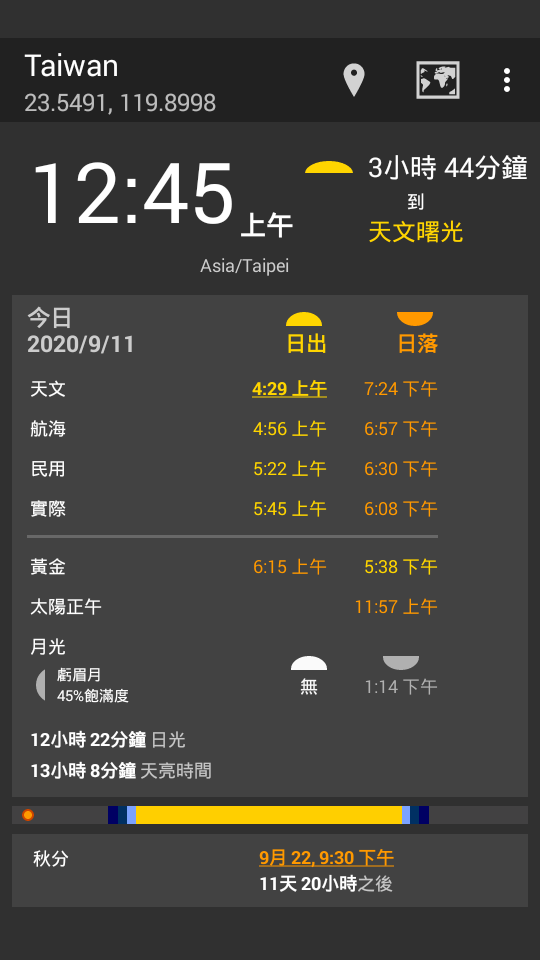
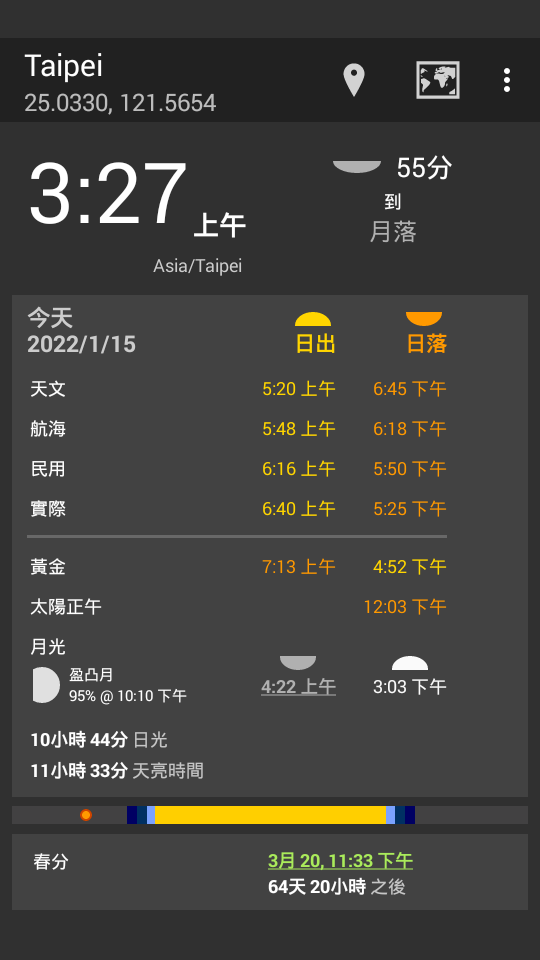
screenshots

diff --git a/app/src/androidTest/java/com/forrestguice/suntimeswidget/SuntimesActivityTestBase.java b/app/src/androidTest/java/com/forrestguice/suntimeswidget/SuntimesActivityTestBase.java
@@ -302,10 +302,10 @@ public abstract class SuntimesActivityTestBase
         config.put("it", new SuntimesTestConfig(new Location("Roma", "41.9099", "12.3959", "79"), "CET", false, "METRIC"));
         config.put("pl", new SuntimesTestConfig(new Location("Warszawa", "52.2319", "21.0067", "143"), "Poland", true, "METRIC"));
         config.put("nb", new SuntimesTestConfig(new Location("Oslo", "59.8937", "10.6450", "0"), "Europe/Oslo", true, "METRIC"));
-        config.put("zh_TW", new SuntimesTestConfig(new Location("Taiwan", "23.5491", "119.8998", "0"), "Asia/Taipei", false, "METRIC"));
+        config.put("zh_TW", new SuntimesTestConfig(new Location("Taipei", "25.0330", "121.5654", "0"), "Asia/Taipei", false, "METRIC"));
         config.put("pt_BR", new SuntimesTestConfig(new Location("São Paulo", "-23.6821", "-46.8754", "815"), "Brazil/East", true, "METRIC"));
         config.put("cs", new SuntimesTestConfig(new Location("Prague", "50.0595", "14.3255", "361"), "CET", true, "METRIC"));
-        config.put("zh_CN", new SuntimesTestConfig(new Location("Taiwan", "23.5491", "119.8998", "0"), "Asia/Taipei", false, "METRIC"));
+        config.put("zh_CN", new SuntimesTestConfig(new Location("Beijing", "39.9042", "116.4074", "0"), "Asia/Taipei", false, "METRIC"));
 
         if (!version.startsWith("v"))
             version = "v" + version;
